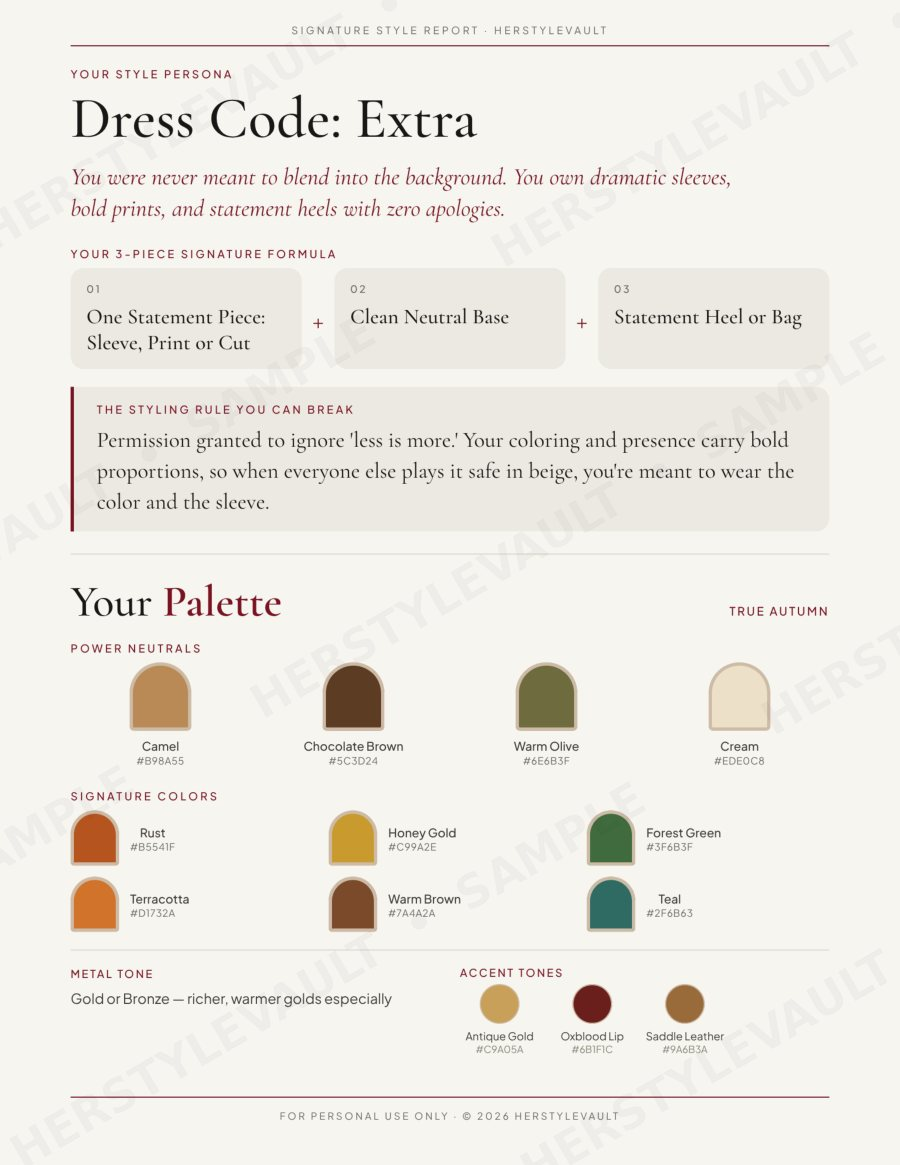
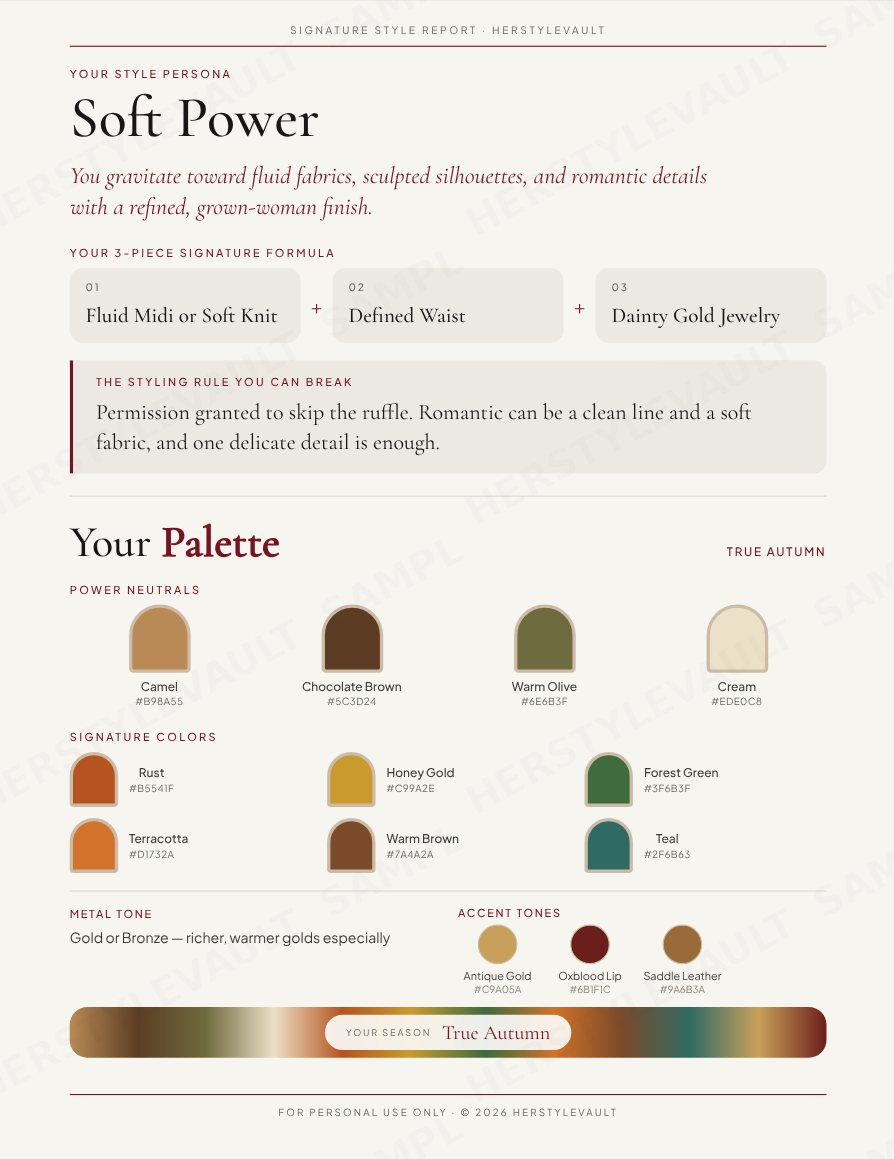
Report PDF goes to email (download button removed); refresh Signature Report sample pages to the new design
Claude-Session: https://claude.ai/code/session_01FUdN8BrrqRcBgv91ujUewX

diff --git a/analysis-results.html b/analysis-results.html
@@ -141,7 +141,7 @@ body{background:var(--surface);color:var(--ink);font-family:var(--font-body);pad
 </head>
 <body>
 <div class="wrap" id="wrap">
-  <div class="topbar"><span class="brand">HerStyleVault</span><span class="top-actions"><button class="dl-btn alt" id="email-btn" hidden disabled>Email me my PDF</button><button class="dl-btn" id="dl-btn" disabled>Download PDF</button></span></div>
+  <div class="topbar"><span class="brand">HerStyleVault</span><span class="top-actions"><button class="dl-btn" id="email-btn" disabled>Email me my PDF</button></span></div>
   <div class="dl-ready" id="dl-ready" hidden></div>
   <div id="app"><div class="loader"><div class="spinner"></div><p>Generating your report...</p><p class="sub">This takes about 20 to 30 seconds. We're building your personalized color and style analysis now.</p></div></div>
 </div>
@@ -359,12 +359,12 @@ function fitPreviews(){
 async function renderReport(r){
   REPORT=r;await prepCroq(r);await layoutPages(r);
   const pages=buildPages(r);
-  document.getElementById('app').innerHTML='<p class="hint">Your report is ready. Scroll through it here, or download the PDF to keep.</p>'+pages.map(p=>'<div class="prev-slot">'+p+'</div>').join('')
+  document.getElementById('app').innerHTML='<p class="hint">Your report is ready. Scroll through it here, and tap <b>Email me my PDF</b> to get a copy in your inbox.</p>'+pages.map(p=>'<div class="prev-slot">'+p+'</div>').join('')
     +'<div class="cta"><h3>Ready to turn this into outfits?</h3><p>A free consultation turns this report into a real wardrobe. Your $40 is credited toward any 1:1 package if you book within 45 days.</p><a href="'+(r.isReturning?'book.html':'https://tally.so/r/yPeEjp')+'">'+(r.isReturning?'Book Your Session':'Book a Consultation')+'</a></div>';
   fitPreviews();window.addEventListener('resize',fitPreviews);
-  const btn=document.getElementById('dl-btn');btn.disabled=false;btn.onclick=()=>downloadPdf(btn);
-  /* the email button only appears once email sending is set up on the server */
-  fetch('/.netlify/functions/send-report?health=1').then(r=>r.json()).then(j=>{if(j&&j.ok){window.__EMAIL_OK=true;const eb=document.getElementById('email-btn');eb.hidden=false;eb.disabled=false;eb.onclick=()=>emailPdf(eb);}}).catch(()=>{});
+  /* the PDF goes to the buyer's email; if email sending is ever unavailable we quietly fall back to a download link so nobody is stuck */
+  const eb=document.getElementById('email-btn');eb.disabled=false;eb.onclick=()=>emailPdf(eb);
+  fetch('/.netlify/functions/send-report?health=1').then(r=>r.json()).then(j=>{if(!(j&&j.ok)){eb.textContent='Get my PDF';eb.onclick=()=>downloadPdf(eb);}}).catch(()=>{eb.textContent='Get my PDF';eb.onclick=()=>downloadPdf(eb);});
 }
 async function buildPdf(){
   const root=document.getElementById('pdf-root');
@@ -397,7 +397,7 @@ async function downloadPdf(btn){
     const blob=new Blob([pdf.output('arraybuffer')],{type:isSafari?'application/octet-stream':'application/pdf'});
     const url=URL.createObjectURL(blob);
     const box=document.getElementById('dl-ready');
-    box.innerHTML='Your PDF is ready. <a href="'+url+'" download="'+fname.replace(/"/g,'')+'">Tap here to download it</a>'+(window.__EMAIL_OK?' &middot; or use <b>Email me my PDF</b> above.':'');box.hidden=false;
+    box.innerHTML='Your PDF is ready. <a href="'+url+'" download="'+fname.replace(/"/g,'')+'">Tap here to download it</a>'+'';box.hidden=false;
     if(!isSafari)pdf.save(fname);
   }catch(e){console.error(e);alert('Something went wrong building the PDF. Please try again.');}
   finally{btn.disabled=false;btn.textContent=label;}
@@ -414,8 +414,8 @@ async function emailPdf(btn){
     const j=await res.json().catch(()=>({}));
     if(res.ok&&j.ok)say('Sent! Check your inbox at <strong>'+esc(j.to)+'</strong>. If you do not see it in a minute or two, look in spam or promotions.');
     else if(res.status===429)say('We have already emailed this report a few times. Please check your inbox and spam folder.');
-    else say('We could not send the email right now. Please use <b>Download PDF</b> instead.');
-  }catch(e){console.error(e);say('We could not send the email right now. Please use <b>Download PDF</b> instead.');}
+    else say('We could not send the email just now. Please try again in a minute.');
+  }catch(e){console.error(e);say('We could not send the email just now. Please try again in a minute.');}
   finally{btn.disabled=false;btn.textContent=label;}
 }
 async function init() {

diff --git a/digitals.js b/digitals.js
@@ -55,7 +55,7 @@ var DIGITALS = [
     steps: [
       ['Answer 23 Questions', "About your natural coloring and body, with visual examples for the trickier ones, so nothing's a guess."],
       ['Add a Photo', "Optional, but it sharpens your color and shape read. Skip it if you'd rather not."],
-      ['Get Your Report', 'Built from your answers in under a minute: your color season, body shape, and exactly what to wear.']
+      ['Get Your Report', 'Built from your answers in under a minute: your color season, body shape, and exactly what to wear. Read it on screen, and we email you the PDF.']
     ],
     trustTitle: 'Not a generic <em>quiz result</em>',
     trust: [
@@ -63,6 +63,7 @@ var DIGITALS = [
       ['Written for you, not templated', 'A personalized digital report explaining exactly how your specific answers point to your result, including resolving any answers that seem to contradict each other, the way a real stylist would.']
     ],
     faqs: [
+      ['How do I get my report?', 'It opens on screen as soon as it is ready, and one tap sends the PDF to the email you checked out with, so you can keep it.'],
       ['How long does it take?', 'About 5 minutes for the quiz itself. Your report generates in under a minute after checkout.'],
       ['Do I need to upload a photo?', "No, it's optional. It sharpens the read on your color and shape, but the report works from your answers alone if you'd rather skip it."],
       ['Is this the same as booking a session?', 'No, this is a self-serve digital product for anyone, anywhere. If you want hands-on styling help, book a free consultation instead.'],

diff --git a/index.html b/index.html
@@ -179,7 +179,7 @@
 <p class="eyebrow">Signature Style Report · Digital &amp; Instant</p>
 <h2 class="heading" style="margin:0 0 0.9rem;">Find your <em>colors</em> and your <em>shape</em></h2>
 <p class="rep-text">Answer 23 quick questions, add a photo if you like, and get a report made for you in about 5 minutes: your color season, your body shape and exactly what to wear.</p>
-<ul class="rep-chips"><li>$40 one-time</li><li>Instant PDF</li><li>$40 credit toward a package</li></ul>
+<ul class="rep-chips"><li>$40 one-time</li><li>PDF to your inbox</li><li>$40 credit toward a package</li></ul>
 <div class="rep-actions"><a class="btn btn-primary" href="color-style-analysis.html">Start Style Analysis</a><a class="vd-peek" href="digital-signature-style-report.html">Details <i aria-hidden="true">&rarr;</i></a></div>
 </div>
 <a class="rep-visual" href="digital-signature-style-report.html" aria-label="See inside the Signature Style Report">
